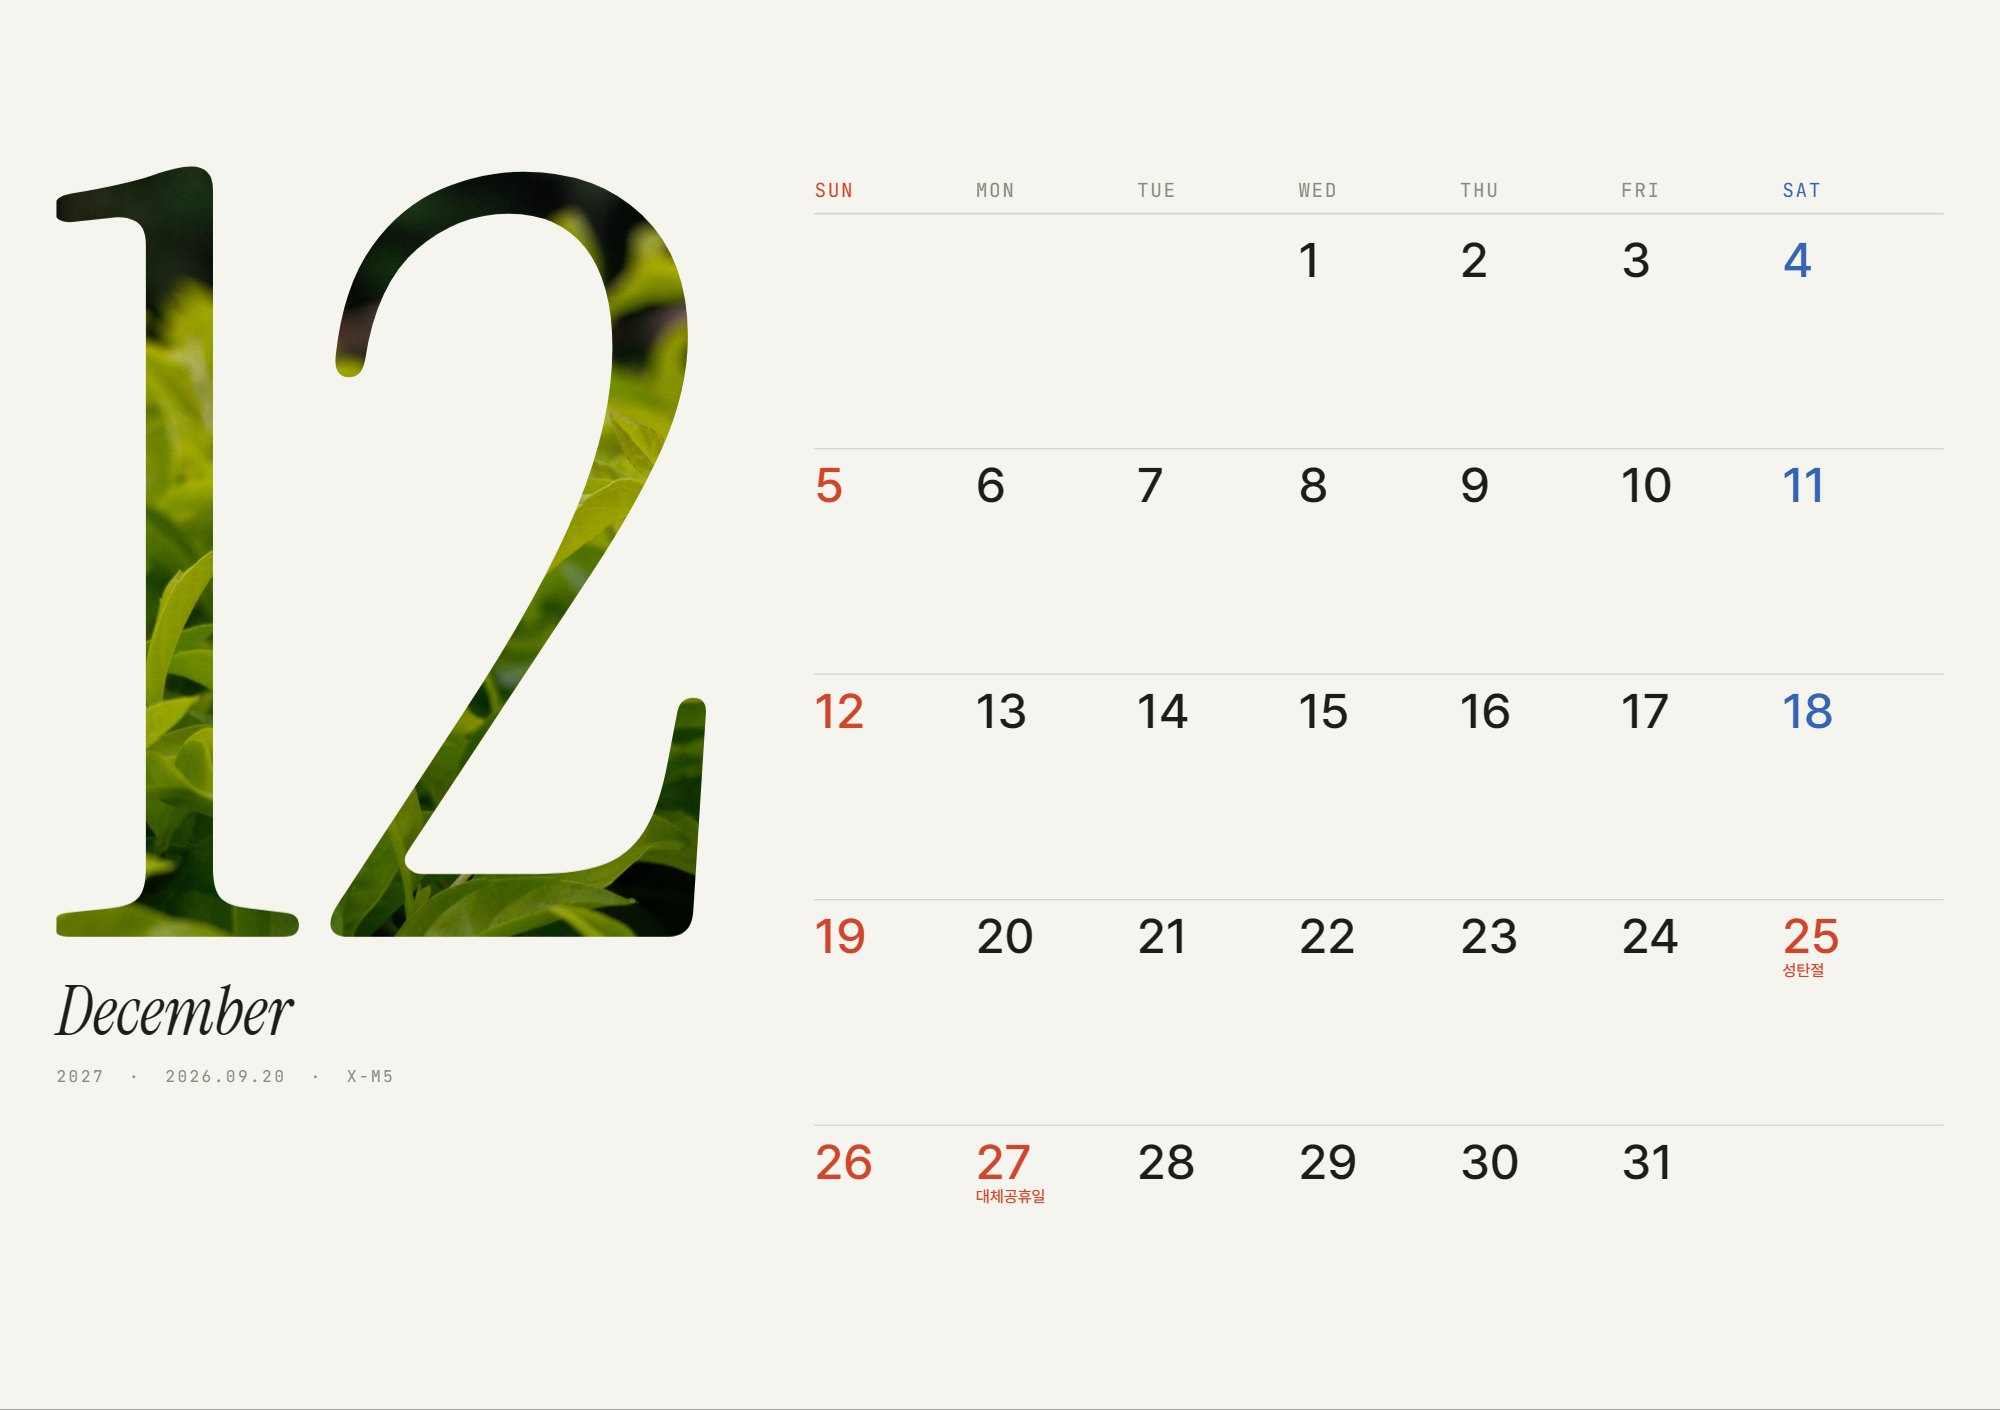
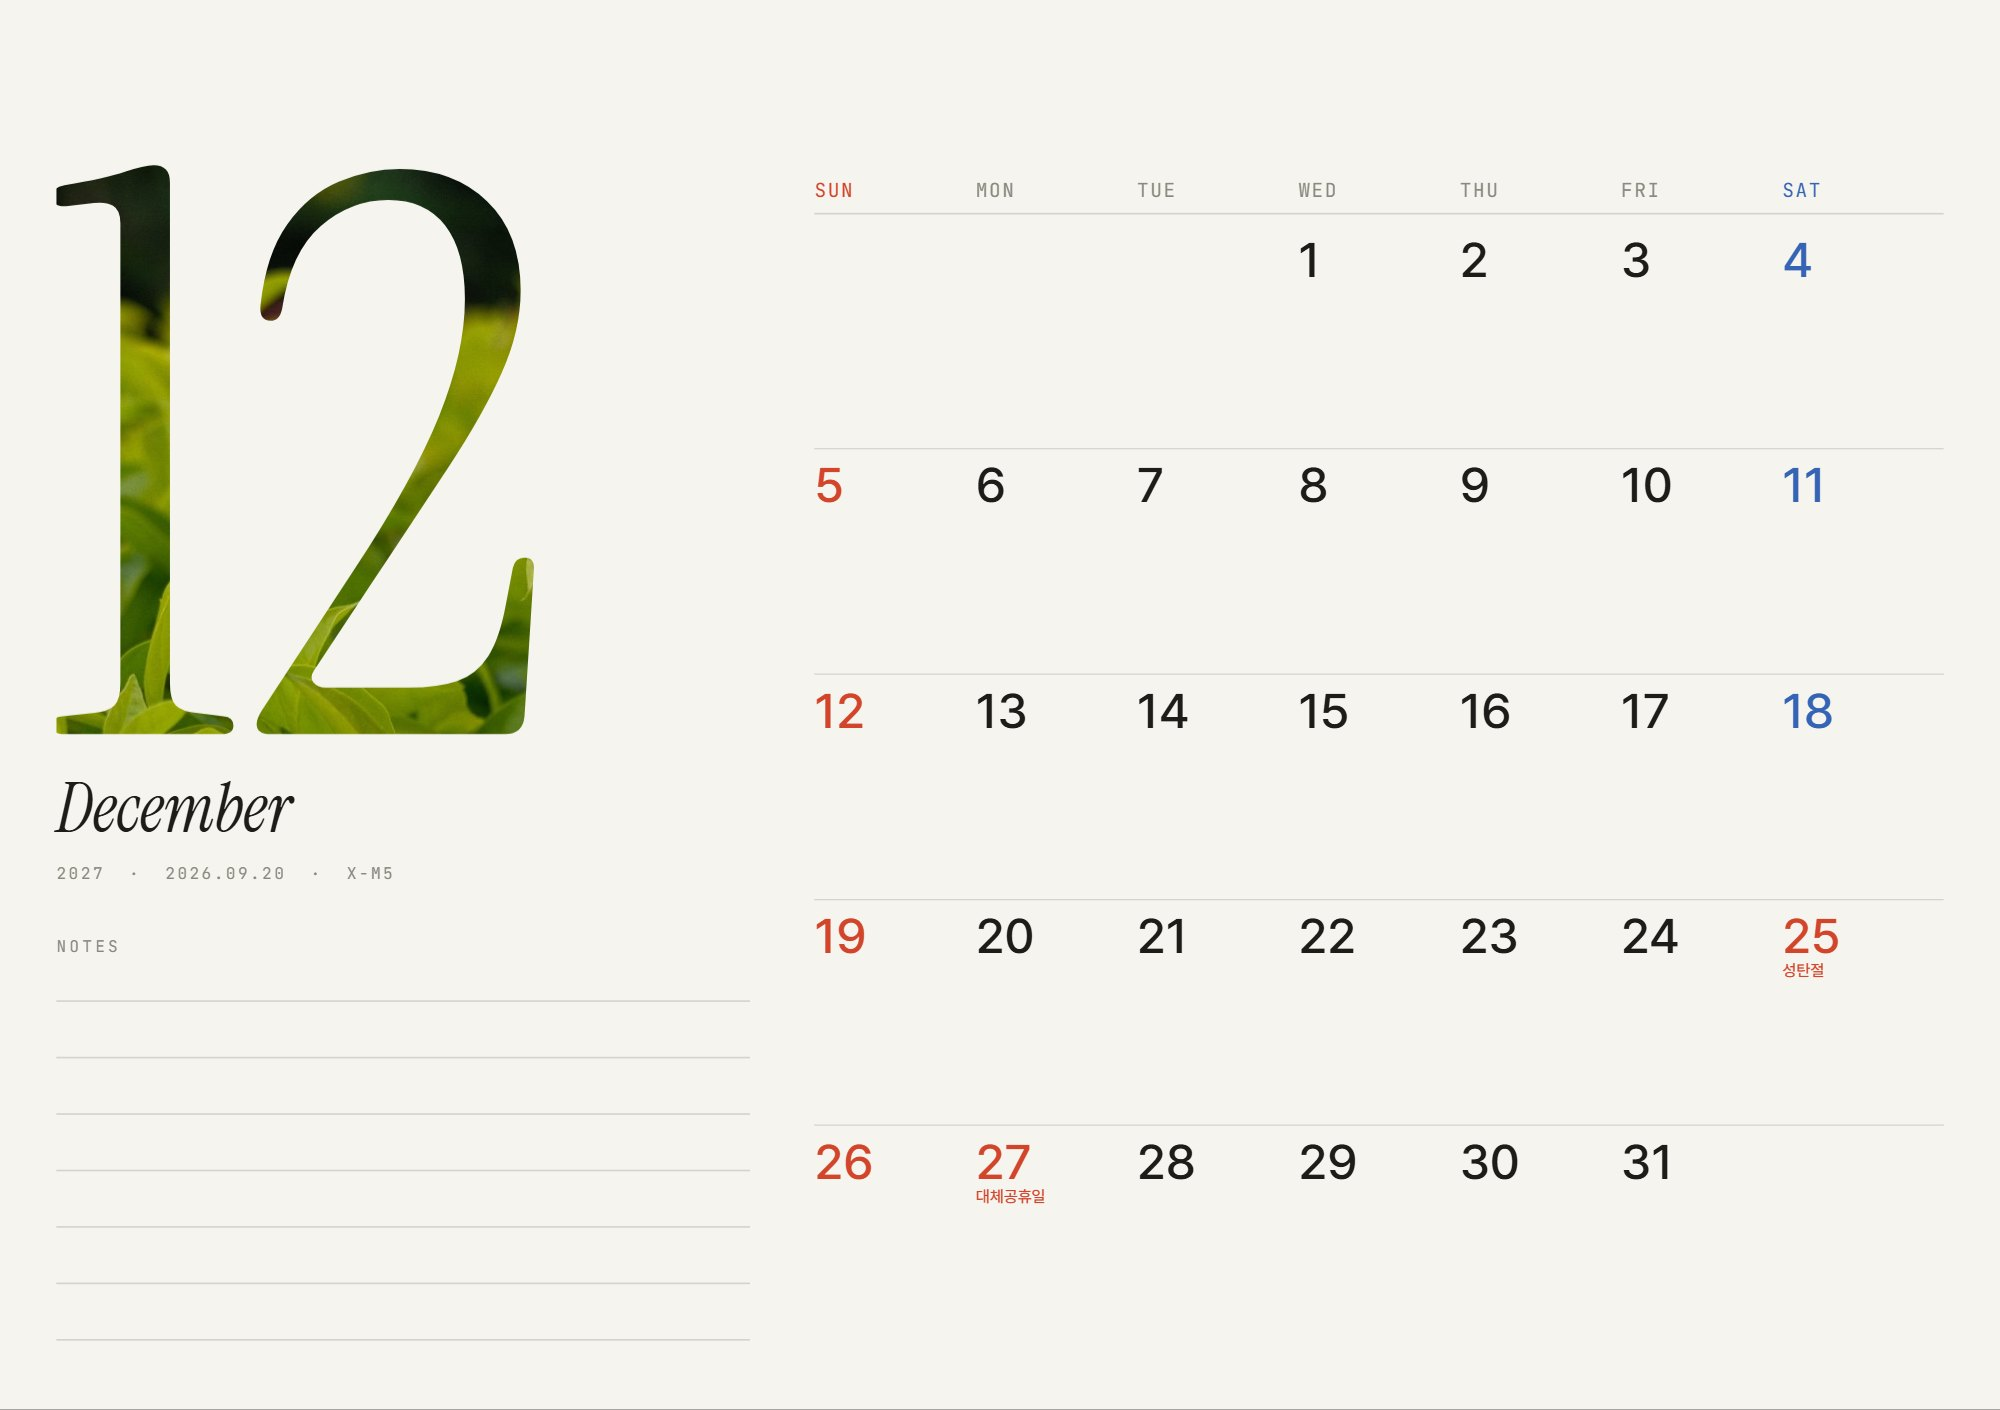
Calendar numeral layout: same digit size every month, memo lines under the month; redraw the published 2027 calendar fronts

Changed region(s): [[0.031, 0.0936, 0.372, 0.7801]]

diff --git a/app.js b/app.js
@@ -1159,11 +1159,14 @@ function calDraw(cal, pg, W, art, imgs, ext) {
       grid(X, SY, SR - X, SB - SY, { rows: true });
     } else if (L === 'numeral') {
       // 숫자 속 사진: 왼쪽에 달 숫자를 크게, 그 안에 사진
-      const px = fitPx(mm, NF, R[2], R[3] - 260);
+      // 숫자 크기는 열두 달 중 가장 넓은 숫자에 맞춰서 모든 달이 같아요
+      const px = Math.min(...CAL_MON.map((_, i) => fitPx(pad(i + 1), NF, R[2], R[3] - 260)));
       inText(mm, R, px, NF, SX - 10, SY + px * .74);
       const by = SY + px * .74;
       calText(x, mon, SX, by + 120, { px: 84, fam: CF.serif, sty: 'italic', color: T.ink });
       calText(x, `${y}${cap ? '  ·  ' + cap : ''}`, SX, by + 180, { px: 20, color: T.muted, track: 3 });
+      // 남는 아래 공간은 플래너처럼 메모 줄
+      if (SB - by - 330 >= 0) { calText(x, 'NOTES', SX, by + 270, { px: 20, color: T.muted, track: 4 }); lines(SX, by + 330, R[2], Math.floor((SB - by - 330) / 70) + 1); }
       const X = R[0] + R[2] + 80;
       grid(X, SY, SR - X, SB - SY, { rows: true });
     } else {

diff --git a/index.html b/index.html
@@ -13,7 +13,7 @@
 <link rel="preconnect" href="https://fonts.googleapis.com">
 <link rel="preconnect" href="https://fonts.gstatic.com" crossorigin>
 <link rel="stylesheet" href="https://fonts.googleapis.com/css2?family=Instrument+Serif:ital@0;1&family=JetBrains+Mono:wght@100..800&family=Noto+Serif+KR:wght@200..900&display=swap">
-<link rel="stylesheet" href="app.css?v=36">
+<link rel="stylesheet" href="app.css?v=37">
 <script>
   // 저장된 밝기 모드를 화면이 그려지기 전에 적용해 깜빡임을 막아요.
   try { var t = localStorage.getItem('hm-theme'); if (t) document.documentElement.dataset.theme = t; } catch (e) {}
@@ -161,6 +161,6 @@
 <div class="toast" id="toast"></div>
 <div class="curtain" id="curtain"></div>
 
-<script src="app.js?v=36" defer></script>
+<script src="app.js?v=37" defer></script>
 </body>
 </html>
